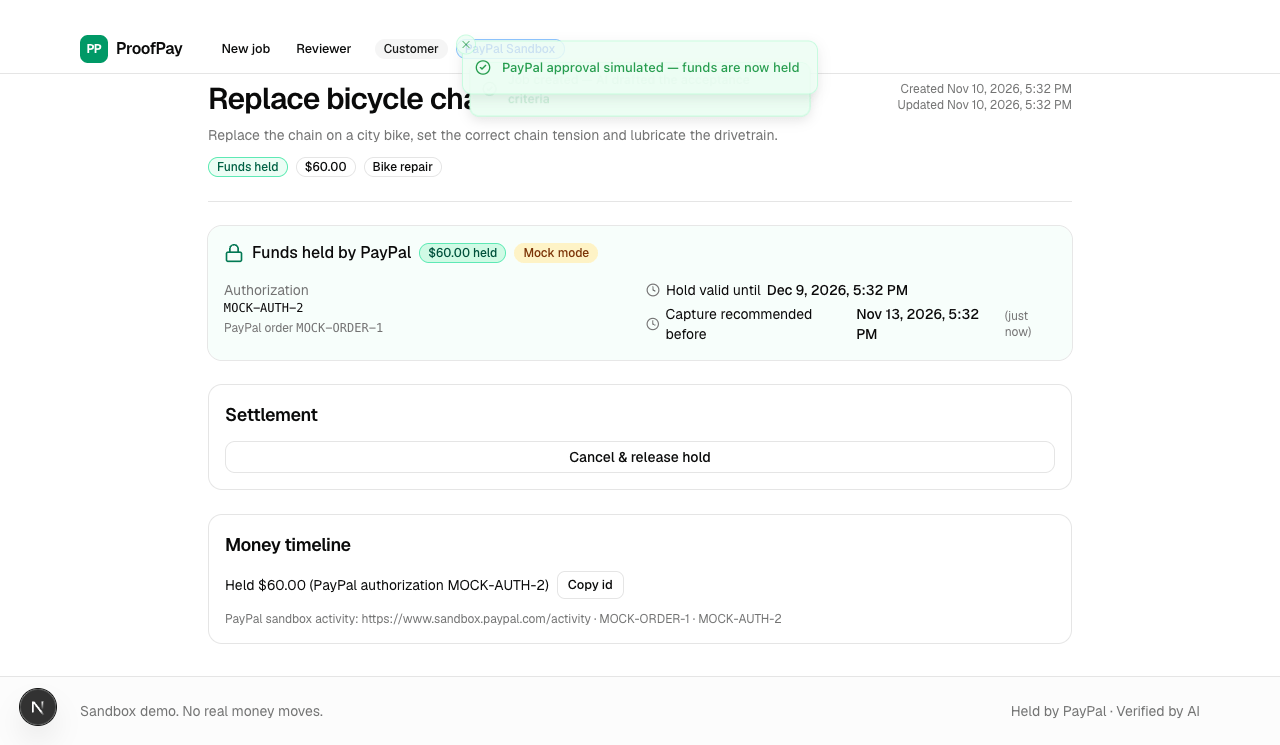
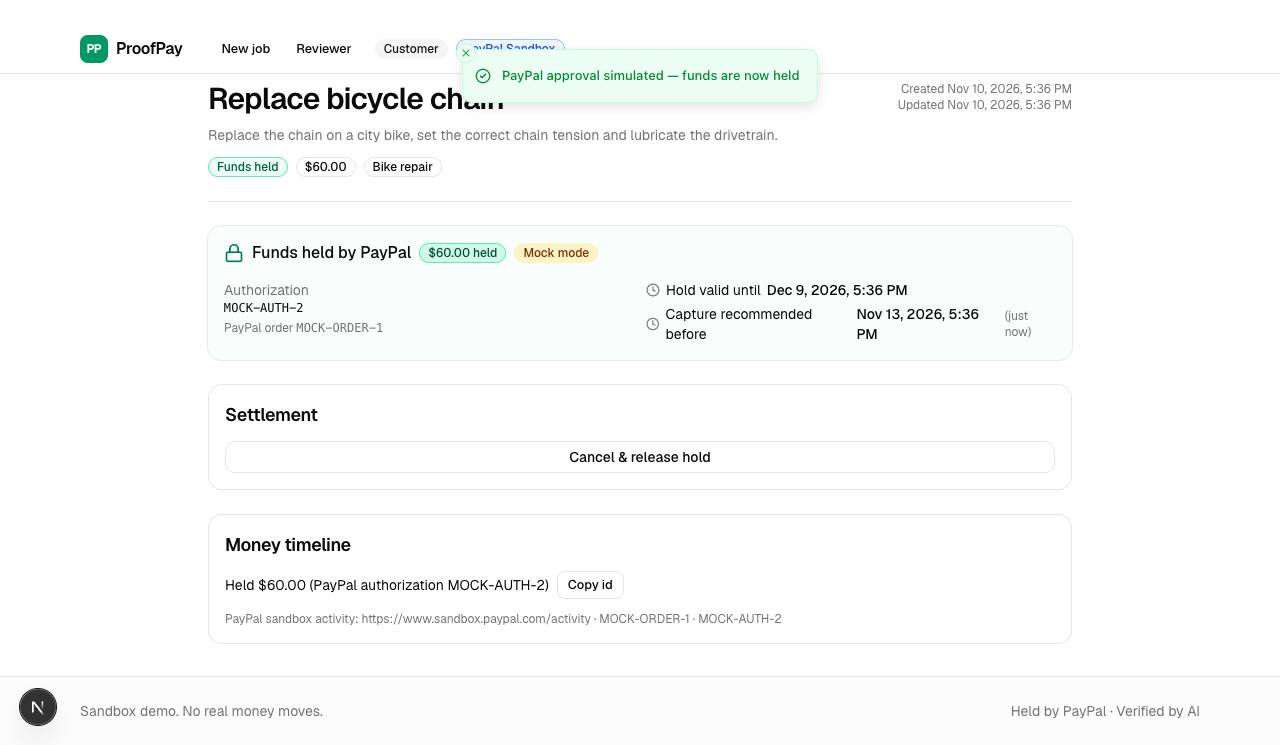
A05: run the full demo script in the dry-run, reuse hardened attach helper

diff --git a/tests/e2e/demo-dryrun.spec.ts b/tests/e2e/demo-dryrun.spec.ts
@@ -18,7 +18,14 @@ import { expect, test, type Page } from '@playwright/test';
 import sharp from 'sharp';
 
 import { fetchJob, gotoWithRetry, jobIdFromUrl, selectRole } from './helpers/api';
-import { authorizeJobWithMock, DEMO_CLEANING, DEMO_DELIVERY, openJob, uploadEvidenceAndSubmit } from './helpers/flow';
+import {
+  attachEvidenceWithRetry,
+  authorizeJobWithMock,
+  DEMO_CLEANING,
+  DEMO_DELIVERY,
+  openJob,
+  uploadEvidenceAndSubmit,
+} from './helpers/flow';
 import {
   AFTER_IMAGE,
   BEFORE_IMAGE,
@@ -138,10 +145,8 @@ test.describe('@dryrun demo dry-run (three stories from the script)', () => {
       await openJob(page, jobId, 'worker');
       const liveness = page.getByTestId('liveness-code');
       await expect(liveness).toContainText(/\d{4}/, { timeout: 30_000 });
-      await page.getByTestId('dropzone-before').setInputFiles(BEFORE_IMAGE);
-      await page.getByTestId('dropzone-after').setInputFiles(AFTER_IMAGE);
       const submit = page.getByTestId('submit-evidence');
-      await expect(submit).toBeEnabled({ timeout: 20_000 });
+      await attachEvidenceWithRetry(page, BEFORE_IMAGE, AFTER_IMAGE, submit);
       await capture(page, '04-worker-upload-code', 'Worker view: liveness-code banner + before/after evidence');
       await Promise.all([
         page.waitForURL((url) => /^\/jobs\/[^/?#]+$/.test(url.pathname), { timeout: 45_000 }),
@@ -181,9 +186,13 @@ test.describe('@dryrun demo dry-run (three stories from the script)', () => {
       ).toBeVisible({ timeout: 20_000 });
       await capture(page, '07-partial-proposal', 'Settlement agent proposal: capture $96.00, release $24.00, customer Accept');
 
+      // Script shot 6 continues: the customer accepts, and the partial capture runs.
+      await page.getByTestId('accept-proposal').click();
+      await expect(page.getByTestId('job-status')).toHaveAttribute('data-status', 'CAPTURED', { timeout: 60_000 });
       const job = await fetchJob(request, DEMO_CLEANING);
-      expect(job.status).toBe('PARTIAL');
-      expect(job.latestVerification?.decision.captureAmount?.value).toBe('96.00');
+      expect(job.status).toBe('CAPTURED');
+      expect(job.payment?.captured.value).toBe('96.00');
+      expect(Number(job.payment?.captured.value)).toBeLessThan(Number(job.payment?.authorized?.value ?? '0'));
       ok = true;
     } finally {
       recordFlow('cleaning partial proposal ($96.00 / $24.00)', started, ok);
@@ -213,8 +222,18 @@ test.describe('@dryrun demo dry-run (three stories from the script)', () => {
       await expect(page.getByTestId('evidence-pack-markdown')).toContainText(DEMO_DELIVERY, { timeout: 60_000 });
       await capture(page, '09-reviewer-evidence-pack', 'Reviewer evidence pack (markdown) for the duplicate delivery');
 
+      // Script shot 7 continues: the reviewer rejects and the hold is voided.
+      await page.getByTestId('review-decision-reject').click();
+      await page.getByTestId('review-notes').fill(
+        'The after photo is a known stock doorstep image, so the delivery cannot be verified. Rejecting and releasing the hold.',
+      );
+      await page.getByTestId('review-submit').click();
+      await page.waitForURL(/\/reviewer$/, { timeout: 45_000 });
+      await openJob(page, DEMO_DELIVERY, 'customer');
+      await expect(page.getByTestId('job-status')).toHaveAttribute('data-status', 'VOIDED', { timeout: 30_000 });
       const job = await fetchJob(request, DEMO_DELIVERY);
-      expect(job.status).toBe('HUMAN_REVIEW');
+      expect(job.status).toBe('VOIDED');
+      expect(job.payment?.captured.value).toBe('0.00');
       ok = true;
     } finally {
       recordFlow('delivery fraud flags + reviewer evidence pack', started, ok);

diff --git a/tests/e2e/helpers/flow.ts b/tests/e2e/helpers/flow.ts
@@ -68,7 +68,7 @@ export async function uploadEvidenceAndSubmit(
  * lost (state still shows 0 photos and the submit button stays disabled); retry once or
  * twice instead of flaking.
  */
-async function attachEvidenceWithRetry(
+export async function attachEvidenceWithRetry(
   page: Page,
   beforeFile: string,
   afterFile: string,

diff --git a/docs/DRYRUN_REPORT.md b/docs/DRYRUN_REPORT.md
@@ -1,33 +1,33 @@
 # Demo dry-run report
 
-Generated by `tests/e2e/demo-dryrun.spec.ts` (@dryrun) at 2026-11-10T16:32:29.683Z.
+Generated by `tests/e2e/demo-dryrun.spec.ts` (@dryrun) at 2026-11-10T16:37:57.446Z.
 Mode: local managed server (`next dev`, mocks) · Chromium (full channel) · 1280x720 · 1 worker.
 
 ## Flows (`docs/DEMO_AND_SUBMISSION.md` §1 order)
 
 | # | flow | result | duration ms |
 |---|---|---|---|
-| 1 | bike chain full capture ($60.00) | ✅ OK | 14567 |
-| 2 | cleaning partial proposal ($96.00 / $24.00) | ✅ OK | 6265 |
-| 3 | delivery fraud flags + reviewer evidence pack | ✅ OK | 12388 |
+| 1 | bike chain full capture ($60.00) | ✅ OK | 55044 |
+| 2 | cleaning partial proposal ($96.00 / $24.00) | ✅ OK | 27780 |
+| 3 | delivery fraud flags + reviewer evidence pack | ✅ OK | 46418 |
 
 ## Shots (`docs/img/`)
 
 | shot | what | file | result | capture ms | size |
 |---|---|---|---|---|---|
-| 01-landing | Landing: "Money moves when the camera says the job is done." | `docs/img/01-landing.png` | ✅ | 2038 | 91.2 KB |
-| 02-create-job-ai-checklist | Customer creates the job: AI checklist + liveness code | `docs/img/02-create-job-ai-checklist.png` | ✅ | 275 | 71.3 KB |
-| 03-funds-held | PayPal authorized: "$60.00 held by PayPal" + authorization id | `docs/img/03-funds-held.png` | ✅ | 177 | 38.4 KB |
-| 04-worker-upload-code | Worker view: liveness-code banner + before/after evidence | `docs/img/04-worker-upload-code.png` | ✅ | 208 | 49.3 KB |
-| 05-verification-boxes | Verification result: per-criterion verdicts with evidence boxes | `docs/img/05-verification-boxes.png` | ✅ | 610 | 123.8 KB |
-| 06-timeline-captured | Money timeline: Held $60.00 -> Verified -> Captured $60.00 | `docs/img/06-timeline-captured.png` | ✅ | 125 | 35.5 KB |
-| 07-partial-proposal | Settlement agent proposal: capture $96.00, release $24.00, customer Accept | `docs/img/07-partial-proposal.png` | ✅ | 698 | 130.0 KB |
-| 08-fraud-flags | Fraud path: duplicate-image flag + HUMAN_REVIEW for the reviewer | `docs/img/08-fraud-flags.png` | ✅ | 393 | 129.7 KB |
-| 09-reviewer-evidence-pack | Reviewer evidence pack (markdown) for the duplicate delivery | `docs/img/09-reviewer-evidence-pack.png` | ✅ | 1957 | 162.8 KB |
+| 01-landing | Landing: "Money moves when the camera says the job is done." | `docs/img/01-landing.png` | ✅ | 2865 | 91.2 KB |
+| 02-create-job-ai-checklist | Customer creates the job: AI checklist + liveness code | `docs/img/02-create-job-ai-checklist.png` | ✅ | 605 | 69.7 KB |
+| 03-funds-held | PayPal authorized: "$60.00 held by PayPal" + authorization id | `docs/img/03-funds-held.png` | ✅ | 452 | 35.9 KB |
+| 04-worker-upload-code | Worker view: liveness-code banner + before/after evidence | `docs/img/04-worker-upload-code.png` | ✅ | 546 | 49.3 KB |
+| 05-verification-boxes | Verification result: per-criterion verdicts with evidence boxes | `docs/img/05-verification-boxes.png` | ✅ | 1555 | 123.1 KB |
+| 06-timeline-captured | Money timeline: Held $60.00 -> Verified -> Captured $60.00 | `docs/img/06-timeline-captured.png` | ✅ | 351 | 35.4 KB |
+| 07-partial-proposal | Settlement agent proposal: capture $96.00, release $24.00, customer Accept | `docs/img/07-partial-proposal.png` | ✅ | 2196 | 129.8 KB |
+| 08-fraud-flags | Fraud path: duplicate-image flag + HUMAN_REVIEW for the reviewer | `docs/img/08-fraud-flags.png` | ✅ | 1339 | 130.4 KB |
+| 09-reviewer-evidence-pack | Reviewer evidence pack (markdown) for the duplicate delivery | `docs/img/09-reviewer-evidence-pack.png` | ✅ | 721 | 159.6 KB |
 
 ## Cold start / first navigation
 
-- landing page first navigation: **1039 ms**
+- landing page first navigation: **12228 ms**
 - the number above is measured on the local managed `next dev` server (first request compiles the page), not a Render cold start.
 
 ## Glitches / notes
